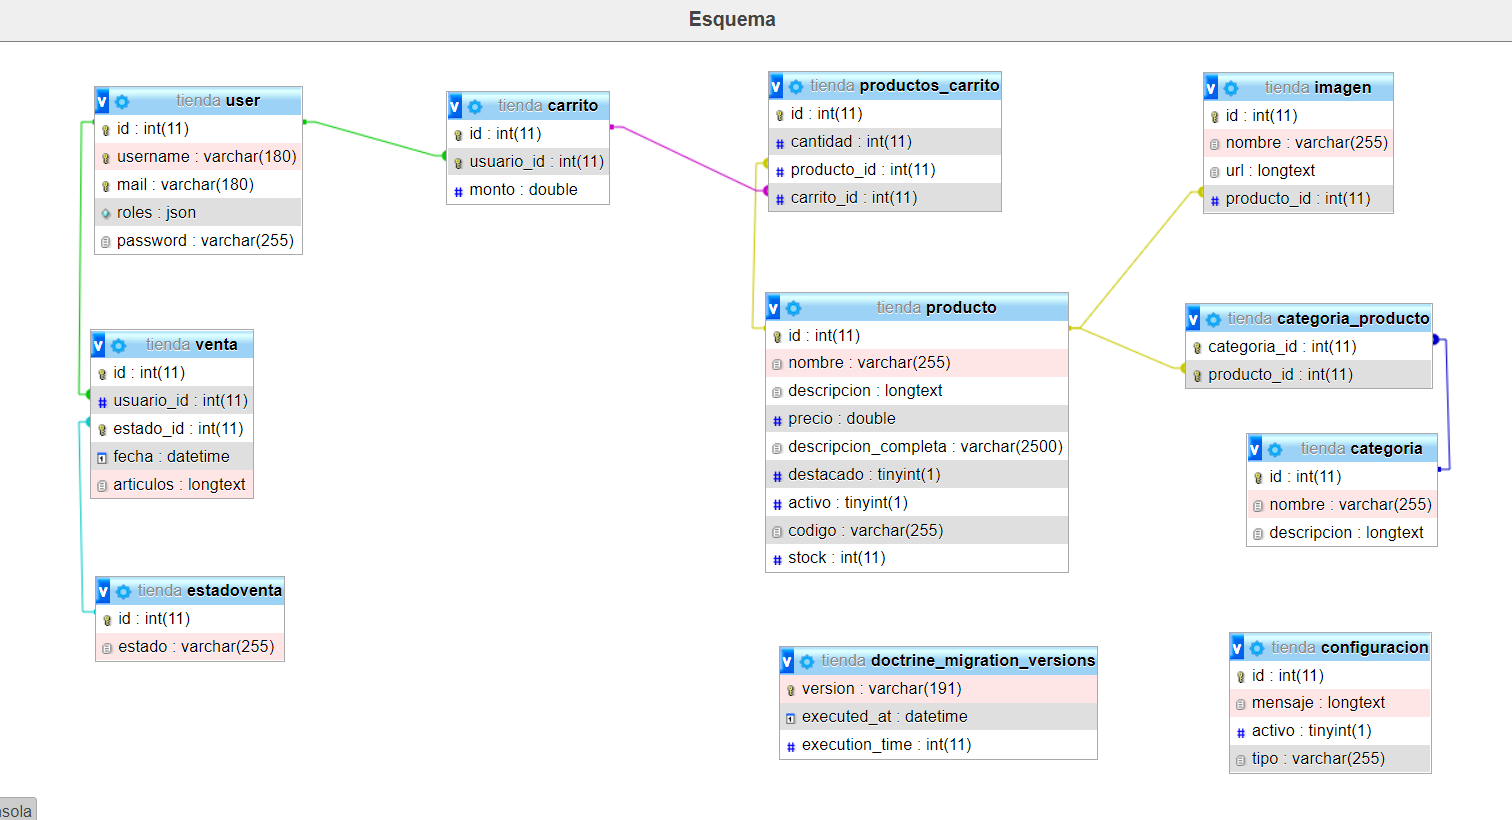
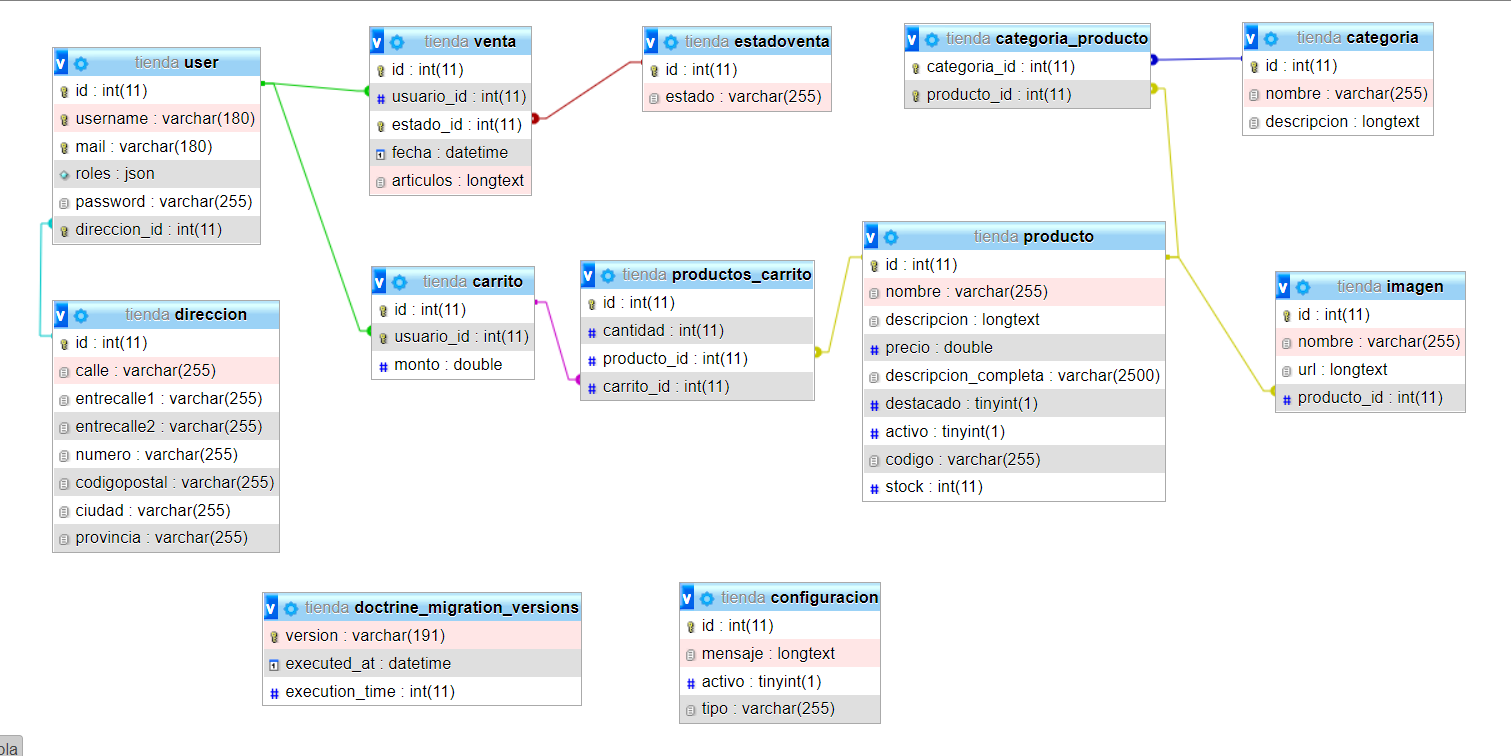
Entidades para la venta

diff --git a/src/Entity/Direccion.php b/src/Entity/Direccion.php
@@ -1,0 +1,143 @@
+<?php
+
+namespace App\Entity;
+
+use App\Repository\DireccionRepository;
+use Doctrine\ORM\Mapping as ORM;
+
+/**
+ * @ORM\Entity(repositoryClass=DireccionRepository::class)
+ */
+class Direccion
+{
+    /**
+     * @ORM\Id
+     * @ORM\GeneratedValue
+     * @ORM\Column(type="integer")
+     */
+    private $id;
+
+    /**
+     * @ORM\Column(type="string", length=255)
+     */
+    private $calle;   
+
+    /**
+     * @ORM\Column(type="string", length=255)
+     */
+    private $entrecalle1;
+
+    /**
+     * @ORM\Column(type="string", length=255)
+     */
+    private $entrecalle2;
+
+    /**
+     * @ORM\Column(type="string", length=255)
+     */
+    private $numero;
+
+    /**
+     * @ORM\Column(type="string", length=255)
+     */
+    private $codigopostal;
+
+    /**
+     * @ORM\Column(type="string", length=255)
+     */
+    private $ciudad;
+
+    /**
+     * @ORM\Column(type="string", length=255)
+     */
+    private $provincia;
+
+    public function getId(): ?int
+    {
+        return $this->id;
+    }
+
+    public function getCalle(): ?string
+    {
+        return $this->calle;
+    }
+
+    public function setCalle(string $calle): self
+    {
+        $this->calle = $calle;
+
+        return $this;
+    }
+
+    public function getEntrecalle1(): ?string
+    {
+        return $this->entrecalle1;
+    }
+
+    public function setEntrecalle1(string $entrecalle1): self
+    {
+        $this->entrecalle1 = $entrecalle1;
+
+        return $this;
+    }
+
+    public function getEntrecalle2(): ?string
+    {
+        return $this->entrecalle2;
+    }
+
+    public function setEntrecalle2(string $entrecalle2): self
+    {
+        $this->entrecalle2 = $entrecalle2;
+
+        return $this;
+    }
+
+    public function getNumero(): ?string
+    {
+        return $this->numero;
+    }
+
+    public function setNumero(string $numero): self
+    {
+        $this->numero = $numero;
+
+        return $this;
+    }
+
+    public function getCodigopostal(): ?string
+    {
+        return $this->codigopostal;
+    }
+
+    public function setCodigopostal(string $codigopostal): self
+    {
+        $this->codigopostal = $codigopostal;
+
+        return $this;
+    }
+
+    public function getCiudad(): ?string
+    {
+        return $this->ciudad;
+    }
+
+    public function setCiudad(string $ciudad): self
+    {
+        $this->ciudad = $ciudad;
+
+        return $this;
+    }
+
+    public function getProvincia(): ?string
+    {
+        return $this->provincia;
+    }
+
+    public function setProvincia(string $provincia): self
+    {
+        $this->provincia = $provincia;
+
+        return $this;
+    }
+}

diff --git a/migrations/Version20220125194645.php b/migrations/Version20220125194645.php
@@ -1,0 +1,37 @@
+<?php
+
+declare(strict_types=1);
+
+namespace DoctrineMigrations;
+
+use Doctrine\DBAL\Schema\Schema;
+use Doctrine\Migrations\AbstractMigration;
+
+/**
+ * Auto-generated Migration: Please modify to your needs!
+ */
+final class Version20220125194645 extends AbstractMigration
+{
+    public function getDescription(): string
+    {
+        return '';
+    }
+
+    public function up(Schema $schema): void
+    {
+        // this up() migration is auto-generated, please modify it to your needs
+        $this->addSql('CREATE TABLE direccion (id INT AUTO_INCREMENT NOT NULL, calle VARCHAR(255) NOT NULL, entrecalle1 VARCHAR(255) NOT NULL, entrecalle2 VARCHAR(255) NOT NULL, numero VARCHAR(255) NOT NULL, codigopostal VARCHAR(255) NOT NULL, ciudad VARCHAR(255) NOT NULL, provincia VARCHAR(255) NOT NULL, PRIMARY KEY(id)) DEFAULT CHARACTER SET utf8mb4 COLLATE `utf8mb4_unicode_ci` ENGINE = InnoDB');
+        $this->addSql('ALTER TABLE user ADD direccion_id INT DEFAULT NULL');
+        $this->addSql('ALTER TABLE user ADD CONSTRAINT FK_8D93D649D0A7BD7 FOREIGN KEY (direccion_id) REFERENCES direccion (id)');
+        $this->addSql('CREATE UNIQUE INDEX UNIQ_8D93D649D0A7BD7 ON user (direccion_id)');
+    }
+
+    public function down(Schema $schema): void
+    {
+        // this down() migration is auto-generated, please modify it to your needs
+        $this->addSql('ALTER TABLE `user` DROP FOREIGN KEY FK_8D93D649D0A7BD7');
+        $this->addSql('DROP TABLE direccion');
+        $this->addSql('DROP INDEX UNIQ_8D93D649D0A7BD7 ON `user`');
+        $this->addSql('ALTER TABLE `user` DROP direccion_id');
+    }
+}

diff --git a/src/Repository/DireccionRepository.php b/src/Repository/DireccionRepository.php
@@ -1,0 +1,50 @@
+<?php
+
+namespace App\Repository;
+
+use App\Entity\Direccion;
+use Doctrine\Bundle\DoctrineBundle\Repository\ServiceEntityRepository;
+use Doctrine\Persistence\ManagerRegistry;
+
+/**
+ * @method Direccion|null find($id, $lockMode = null, $lockVersion = null)
+ * @method Direccion|null findOneBy(array $criteria, array $orderBy = null)
+ * @method Direccion[]    findAll()
+ * @method Direccion[]    findBy(array $criteria, array $orderBy = null, $limit = null, $offset = null)
+ */
+class DireccionRepository extends ServiceEntityRepository
+{
+    public function __construct(ManagerRegistry $registry)
+    {
+        parent::__construct($registry, Direccion::class);
+    }
+
+    // /**
+    //  * @return Direccion[] Returns an array of Direccion objects
+    //  */
+    /*
+    public function findByExampleField($value)
+    {
+        return $this->createQueryBuilder('d')
+            ->andWhere('d.exampleField = :val')
+            ->setParameter('val', $value)
+            ->orderBy('d.id', 'ASC')
+            ->setMaxResults(10)
+            ->getQuery()
+            ->getResult()
+        ;
+    }
+    */
+
+    /*
+    public function findOneBySomeField($value): ?Direccion
+    {
+        return $this->createQueryBuilder('d')
+            ->andWhere('d.exampleField = :val')
+            ->setParameter('val', $value)
+            ->getQuery()
+            ->getOneOrNullResult()
+        ;
+    }
+    */
+}

diff --git a/src/Entity/User.php b/src/Entity/User.php
@@ -53,6 +53,11 @@ class User implements UserInterface, PasswordAuthenticatedUserInterface
      */
     private $ventas;
 
+    /**
+     * @ORM\OneToOne(targetEntity=Direccion::class, cascade={"persist", "remove"})
+     */
+    private $direccion;
+
     public function __construct()
     {
         $this->ventas = new ArrayCollection();
@@ -210,6 +215,18 @@ class User implements UserInterface, PasswordAuthenticatedUserInterface
                 $venta->setUsuario(null);
             }
         }
+
+        return $this;
+    }
+
+    public function getDireccion(): ?Direccion
+    {
+        return $this->direccion;
+    }
+
+    public function setDireccion(?Direccion $direccion): self
+    {
+        $this->direccion = $direccion;
 
         return $this;
     }

diff --git a/src/Controller/CarritoController.php b/src/Controller/CarritoController.php
@@ -61,7 +61,7 @@ class CarritoController extends AbstractController
   
   //Funcion que valida el stock de un Producto antes de comprar
   private function validarStockProducto($unProducto,$unaCantidad) {
-    if($unProducto->getStock() > $unaCantidad ) {
+    if($unProducto->getStock() >= $unaCantidad ) {
      return true;
     }
     else {
